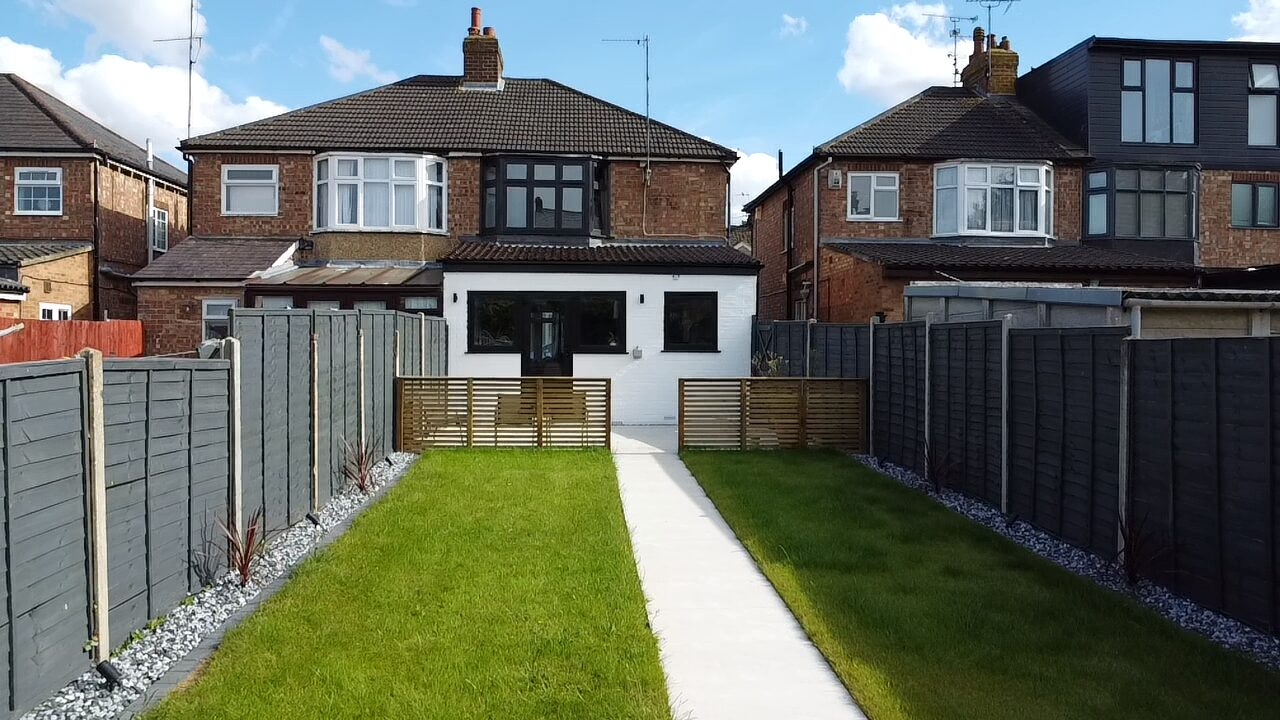
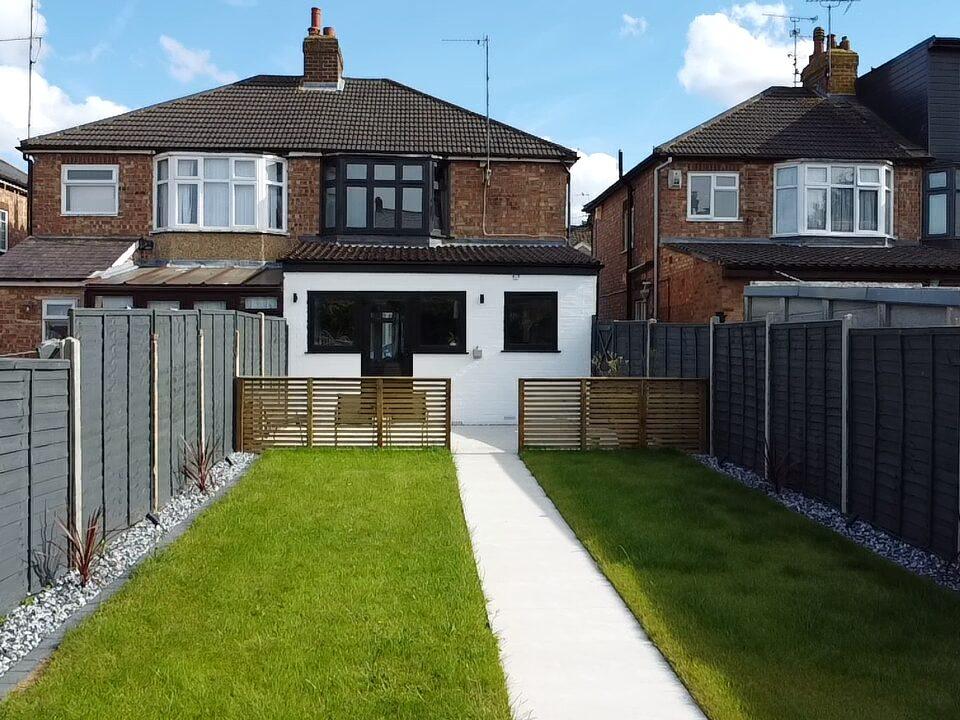
Wolverton case study: one aspect ratio, tighter specs, Shane added
Owner's review. Four things.

The gallery images are all 4:3 now. The grid is two columns at height:auto with
align-items:start, and its own comment says the two columns exist to put a
before beside its after, so a portrait next to a landscape left dead space under
the shorter one. One ratio throughout is what makes the rows line up. It reads
as four rows: the front pair, the rear pair, then two rows of detail.

The spec box was written like notes rather than specification. Four terse rows
now, matching the rest of the archive. The internal colour split came out of it:
it is a sentence, not a spec value, and it was wrapping the box onto three
lines. It says the same thing better in the overview.

The front door before and after pair is gone, called forced, and it was. The bow
motif it carried still appears in the front-before shot and in the opening
paragraph, so the detail survives without the staging.

Both D3300 details are in, owner having confirmed they are this house. Worth
recording why they were nearly dropped: they showed black internal faces where
the video showed white, so they looked like another property. The video only
ever framed an upstairs window, and this house is black downstairs and white
upstairs, so one window was being read as if it described the whole house. The
third frame from that shoot stays out on composition alone, being a portrait
macro that turns to mush at 4:3.

Also: Shane joins Tom and Johnnie on the fitting credit, the overview's second
[…]

diff --git a/app/public/wp-content/themes/fenster/inc/case-studies-data.php b/app/public/wp-content/themes/fenster/inc/case-studies-data.php
@@ -657,21 +657,17 @@ function fenster_case_studies(): array
            September 2023, the back door October 2024, the front elevation and the
            rear flush windows August 2026. The install itself was February 2024.
 
-           Three professional D3300 frames sit in the same folder and are held out
-           pending confirmation, not ruled out. They were shot on 2026-01-20, two
-           years after the install and within 45 minutes of each other, and one of
-           them shows a white outer frame against this house's black externals.
-           They were first held out because they showed black internal faces where
-           the video showed white, but the owner has since confirmed the house is
-           black inside downstairs and white upstairs, so that objection is gone
-           and only the white frame and the date remain. This page's promise is
-           that every photograph is this installation, so they stay out until that
-           is established rather than in on the balance of probability.
+           The two D3300 details are from a later shoot, 2026-01-20, and the owner
+           has confirmed they are this house. They were held out for a while on the
+           reasoning that they showed black internal faces where the video showed
+           white; that was wrong, and instructively so. The video only ever framed
+           an upstairs window, and this house is black inside downstairs and white
+           upstairs, so a single window was being read as if it described the whole
+           house. The third frame from that shoot is not used: it is composed
+           portrait as a macro and turns to mush at the 4:3 the gallery needs.
 
            Colour is owner-stated: black brown externally front and back, black
-           internally downstairs with black handles, white upstairs. The video only
-           ever showed an upstairs window, which is why reading the internal colour
-           off it gave the wrong answer for half the house. */
+           internally downstairs with black handles, white upstairs. */
         'flush-casement-windows-and-composite-door-wolverton' => [
             'title' => 'Flush casement windows and a composite door, Wolverton',
             'location' => 'Wolverton, Milton Keynes',
@@ -685,42 +681,56 @@ function fenster_case_studies(): array
                 ['label' => 'uPVC doors', 'url' => home_url('/upvc-doors/')],
             ],
             'colour' => ['label' => 'Black brown (RAL 8022)', 'url' => $colour_black_brown],
+            /* Four terse rows, as the rest of the archive does it. The internal
+               colour split is a good detail but it is a sentence, not a spec
+               value: it lives in the overview instead of wrapping this box onto
+               three lines. */
             'specs' => [
-                ['label' => 'Products', 'value' => 'Flush casement windows, a composite front door and a uPVC back door'],
+                ['label' => 'Products', 'value' => 'Flush casement windows, composite and uPVC doors'],
                 ['label' => 'System', 'value' => 'Liniar 70mm flush sash uPVC'],
-                ['label' => 'Colour', 'value' => 'Black brown (RAL 8022) outside. Black inside downstairs, white upstairs'],
-                ['label' => 'Energy rating', 'value' => 'A+ (1.2 W/m²K), 28mm double glazed'],
+                ['label' => 'Colour', 'value' => 'Black brown (RAL 8022)'],
+                ['label' => 'Energy rating', 'value' => 'A+ (1.2 W/m²K)'],
             ],
             'overview' => [
                 'The house came to us with white frames and a pink bow motif worked into the leaded glass, in the front door and in the bay alongside it. It is a period detail that dates a house very precisely, and it was the thing the owners most wanted gone. The rest of the frontage was cream render and white uPVC that had done its years.',
-                'We fitted <a href="' . $flush . '">flush casement windows</a> throughout, on the Liniar 70mm flush sash system, where the sash closes level with the outer frame instead of standing proud of it. That flat face is what makes a uPVC window read like painted joinery from the pavement, which matters more than usual on a 1930s bay: the curved run of a bay shows up a stepped sash from right across the road. They are A+ rated and reach 1.2 W/m²K with a 28mm double glazed unit. The finish is <a href="' . $colour_black_brown . '">black brown</a>, RAL 8022, on every external face front and back. Inside, the house is split by floor: black downstairs with black handles to match the living rooms, white upstairs to keep the bedrooms bright. It costs nothing to specify a window that way and it is worth knowing you can, because most people assume the inside has to be one colour.',
+                'We fitted <a href="' . $flush . '">flush casement windows</a> throughout, on the Liniar 70mm flush sash system, where the sash closes level with the outer frame instead of standing proud of it. That flat face is what makes uPVC read like painted joinery from the pavement, and it matters more than usual on a 1930s bay: the curve of a bay shows up a stepped sash from right across the road. They are A+ rated and reach 1.2 W/m²K with a 28mm double glazed unit.',
+                'The finish is <a href="' . $colour_black_brown . '">black brown</a>, RAL 8022, on every external face front and back. Inside, the house is split by floor: black with black handles downstairs, white upstairs to keep the bedrooms bright. A window is foiled on each face separately, so that split costs nothing, and most people do not realise it is an option.',
                 'The front door is a <a href="' . home_url('/composite-doors/') . '">composite door</a> in the same black brown, with a long glazed sidelight to keep light in the hall now the leaded panel has gone, and a <a href="' . home_url('/upvc-doors/') . '">uPVC door</a> serves the back between two flush casements. The chequerboard tiling at the threshold is the original and was kept.',
                 'Worth saying plainly, because the after photographs show it: the render was painted, the drive block paved and the garden landscaped as part of the same restyle, and none of that was our work. We did the windows and the doors. The colour was chosen knowing the walls were going white, which is the part of the job that needed us and the owners to agree early rather than in sequence.',
             ],
             'installed' => [
                 'Liniar 70mm flush casement windows throughout',
-                'Black brown externally, front and back',
-                'Black inside downstairs with black handles, white upstairs',
+                'Black brown outside, black downstairs and white upstairs inside',
                 'Composite front door with a glazed sidelight',
                 'uPVC back door between two flush casements',
                 'A+ rated, 28mm double glazed',
             ],
-            'installers' => [$fitter_tom, $fitter_johnnie],
+            'installers' => [$fitter_tom, $fitter_johnnie, $fitter_shane],
             'video' => [
                 'src' => FENSTER_THEME_URI . '/assets/videos/case-studies/cs-wolverton-restyle.mp4',
                 'poster' => $img . 'cs-wolverton-restyle-poster.jpg',
                 'orientation' => 'portrait',
                 'label' => 'Video of the finished black brown flush casement windows and composite front door on the Wolverton semi',
             ],
+            /* Eight images, every one of them 4:3. The gallery is a two-column
+               grid at `height: auto` with `align-items: start`, so a portrait
+               beside a landscape leaves dead space under the shorter one; its own
+               comment says the two columns exist to put a pair on one row. One
+               ratio throughout is what makes the rows line up.
+
+               Read as four rows: the front pair, the rear pair, then two rows of
+               detail. The front door pair came out — owner, too forced — and the
+               bow motif it carried is still in the front-before shot and the
+               opening paragraph, so nothing is lost by dropping it. */
             'images' => [
                 ['src' => $img . 'cs-wolverton-restyle-front-before.jpg', 'caption' => 'Before: cream render, white frames, and the pink bow motif in the bay glass.'],
                 ['src' => $img . 'cs-wolverton-restyle-front-after.jpg', 'caption' => 'After: black brown flush casements across the bay and the front elevation.'],
-                ['src' => $img . 'cs-wolverton-restyle-door-before.jpg', 'caption' => 'Before: the old front door, with the same pink bow worked into the leaded panel.'],
-                ['src' => $img . 'cs-wolverton-restyle-door-after.jpg', 'caption' => 'After: the composite front door in black brown, with a glazed sidelight. The chequerboard threshold is the original.'],
                 ['src' => $img . 'cs-wolverton-restyle-rear-before.jpg', 'caption' => 'Before: the rear extension in bare brick, with white uPVC.'],
-                ['src' => $img . 'cs-wolverton-restyle-rear-after.jpg', 'caption' => 'After: the same elevation, with the garden and paintwork done by others as part of the restyle.'],
+                ['src' => $img . 'cs-wolverton-restyle-rear-after.jpg', 'caption' => 'After: the same elevation. The paintwork and the garden were done by others as part of the restyle.'],
                 ['src' => $img . 'cs-wolverton-restyle-rear-doors.jpg', 'caption' => 'The uPVC back door, set between two flush casements.'],
                 ['src' => $img . 'cs-wolverton-restyle-flush-rear.jpg', 'caption' => 'The flush sash line at the rear, where the sash closes level with the frame.'],
+                ['src' => $img . 'cs-wolverton-restyle-window-detail.jpg', 'caption' => 'A black handle on a black internal frame downstairs, with obscured glass.'],
+                ['src' => $img . 'cs-wolverton-restyle-door-detail.jpg', 'caption' => 'The composite door hardware, on the black brown woodgrain finish.'],
             ],
             'card_image' => ['src' => $img . 'cs-wolverton-restyle-card.jpg', 'caption' => 'Black brown flush casement windows and a composite front door on a 1930s Wolverton semi.'],
             'seo' => [
